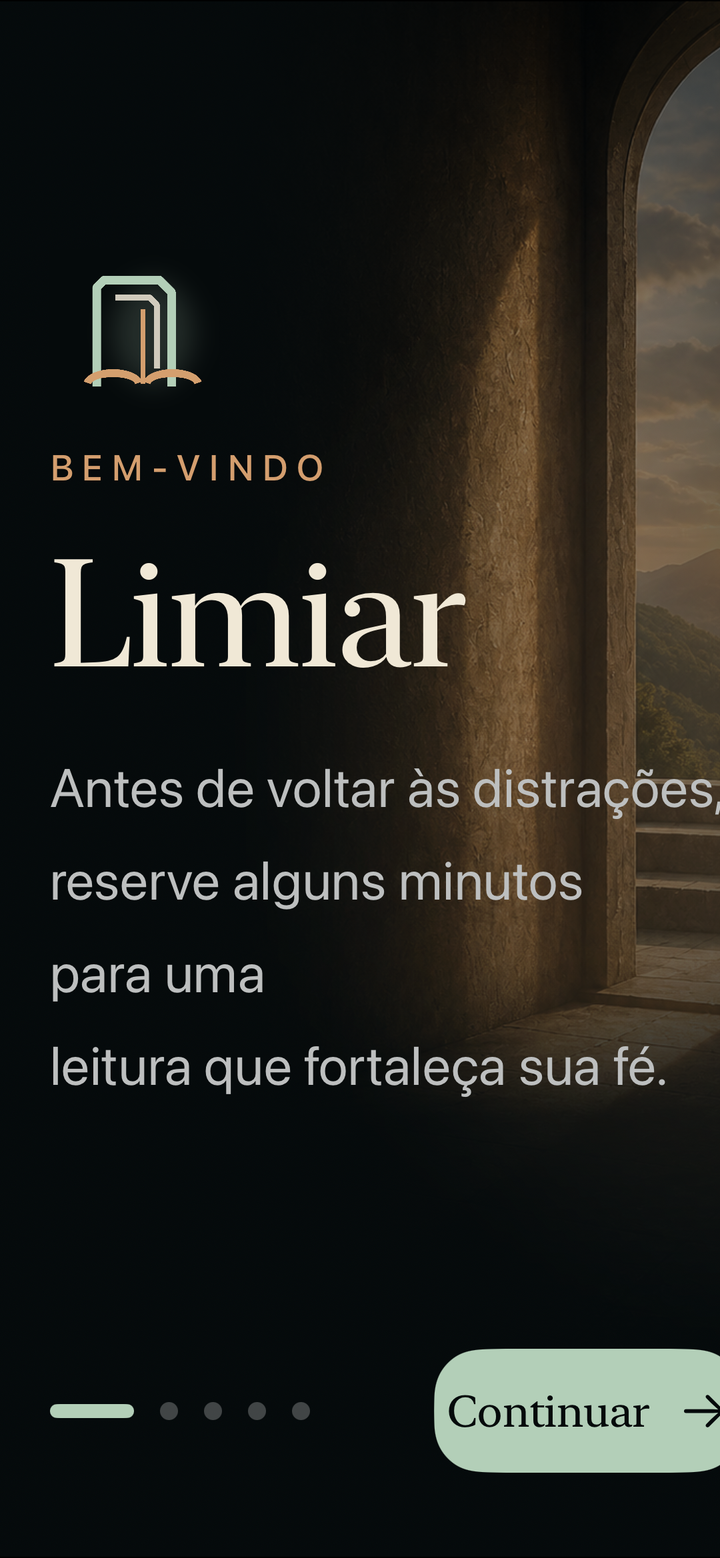
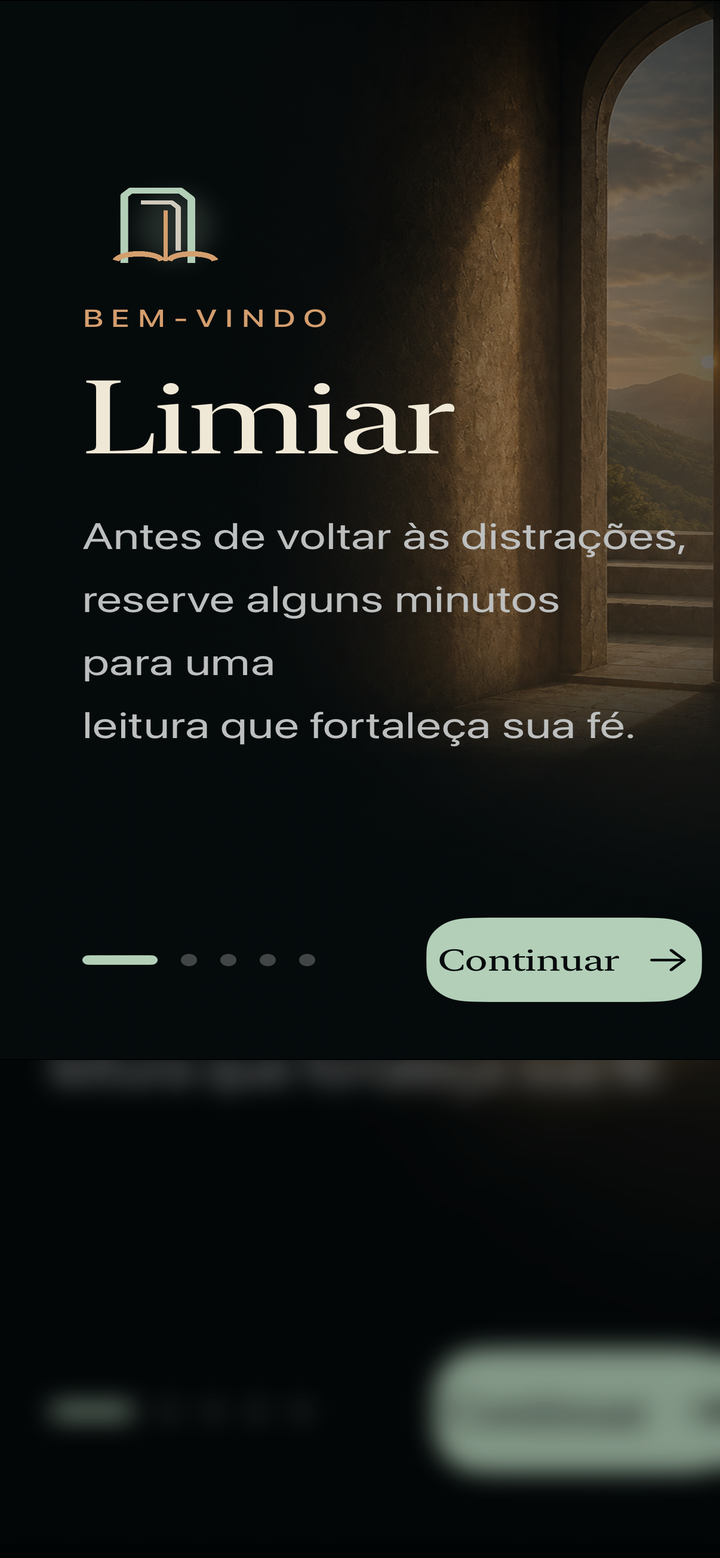
Ajusta mockup e reforca pulso do CTA

diff --git a/index.html b/index.html
@@ -6,7 +6,7 @@
     <title>Limiar - Pausa espiritual antes das distrações</title>
     <meta name="description" content="Limiar cria uma pausa espiritual antes dos apps que mais puxam sua atenção. Comece com 7 dias grátis e continue com Premium mensal ou anual.">
     <link rel="icon" href="assets/logo-mark-1024.png">
-    <link rel="stylesheet" href="styles.css?v=20260704-button-pulse">
+    <link rel="stylesheet" href="styles.css?v=20260704-strong-pulse">
   </head>
   <body>
     <header class="site-header">
@@ -49,7 +49,7 @@
           </div>
           <a class="device-lockup" href="https://apps.apple.com/br/app/limiar/id6783115468" aria-label="Abrir o Limiar na App Store">
             <div class="device-frame">
-              <img src="assets/app-onboarding.png?v=20260704-original-mockup" alt="Tela inicial do Limiar">
+              <img src="assets/app-onboarding.png?v=20260704-full-button" alt="Tela inicial do Limiar">
             </div>
           </a>
         </div>

diff --git a/marketing/site/index.html b/marketing/site/index.html
@@ -6,7 +6,7 @@
     <title>Limiar - Pausa espiritual antes das distrações</title>
     <meta name="description" content="Limiar cria uma pausa espiritual antes dos apps que mais puxam sua atenção. Comece com 7 dias grátis e continue com Premium mensal ou anual.">
     <link rel="icon" href="assets/logo-mark-1024.png">
-    <link rel="stylesheet" href="styles.css?v=20260704-button-pulse">
+    <link rel="stylesheet" href="styles.css?v=20260704-strong-pulse">
   </head>
   <body>
     <header class="site-header">
@@ -49,7 +49,7 @@
           </div>
           <a class="device-lockup" href="https://apps.apple.com/br/app/limiar/id6783115468" aria-label="Abrir o Limiar na App Store">
             <div class="device-frame">
-              <img src="assets/app-onboarding.png?v=20260704-original-mockup" alt="Tela inicial do Limiar">
+              <img src="assets/app-onboarding.png?v=20260704-full-button" alt="Tela inicial do Limiar">
             </div>
           </a>
         </div>

diff --git a/marketing/site/styles.css b/marketing/site/styles.css
@@ -153,7 +153,7 @@ a {
   position: absolute;
   inset: -1px;
   border-radius: inherit;
-  background: linear-gradient(110deg, transparent 18%, rgba(255, 255, 255, 0.26) 48%, transparent 72%);
+  background: linear-gradient(110deg, transparent 12%, rgba(255, 255, 255, 0.4) 48%, transparent 78%);
   opacity: 0;
   transform: translateX(-105%);
   animation: button-soft-shine 6.8s ease-in-out 1.8s infinite;
@@ -279,8 +279,8 @@ h1 {
   }
 
   48% {
-    box-shadow: 0 10px 34px rgba(179, 207, 184, 0.16), 0 0 0 7px rgba(179, 207, 184, 0.07);
-    transform: scale(1.012);
+    box-shadow: 0 16px 46px rgba(179, 207, 184, 0.28), 0 0 0 14px rgba(179, 207, 184, 0.12);
+    transform: scale(1.045);
   }
 }
 
@@ -293,7 +293,7 @@ h1 {
   }
 
   74% {
-    opacity: 0.58;
+    opacity: 0.76;
   }
 
   86% {

diff --git a/styles.css b/styles.css
@@ -153,7 +153,7 @@ a {
   position: absolute;
   inset: -1px;
   border-radius: inherit;
-  background: linear-gradient(110deg, transparent 18%, rgba(255, 255, 255, 0.26) 48%, transparent 72%);
+  background: linear-gradient(110deg, transparent 12%, rgba(255, 255, 255, 0.4) 48%, transparent 78%);
   opacity: 0;
   transform: translateX(-105%);
   animation: button-soft-shine 6.8s ease-in-out 1.8s infinite;
@@ -279,8 +279,8 @@ h1 {
   }
 
   48% {
-    box-shadow: 0 10px 34px rgba(179, 207, 184, 0.16), 0 0 0 7px rgba(179, 207, 184, 0.07);
-    transform: scale(1.012);
+    box-shadow: 0 16px 46px rgba(179, 207, 184, 0.28), 0 0 0 14px rgba(179, 207, 184, 0.12);
+    transform: scale(1.045);
   }
 }
 
@@ -293,7 +293,7 @@ h1 {
   }
 
   74% {
-    opacity: 0.58;
+    opacity: 0.76;
   }
 
   86% {
